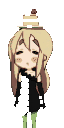
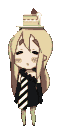
fix: ED1/ED2 立绘重做成 Q 版（头身比与校服版一致），动画帧改为立绘自位移；高清帧率 4→2fps（v0.31.2）

Changed region(s): [[0.125, 0.0625, 0.8438, 1.0], [0.1562, 0.5312, 0.1875, 0.5625]]

diff --git a/lib/client.js b/lib/client.js
@@ -655,7 +655,7 @@
 			if (!Core) throw new Error("dsh-kon-fee-widget: 缺少 KonFeeCore，请先运行 node scripts/build-client.mjs");
 
 			const ASSET_BASE = "/dsh-kon-fee-widget";
-			const ASSET_REV = "a70bd5a85be4";
+			const ASSET_REV = "4589af3b7ade";
 			const TABLE = Core.TABLE;
 			const SNAP_DISTANCE = 24;
 			const PANEL_MS = 8000;
